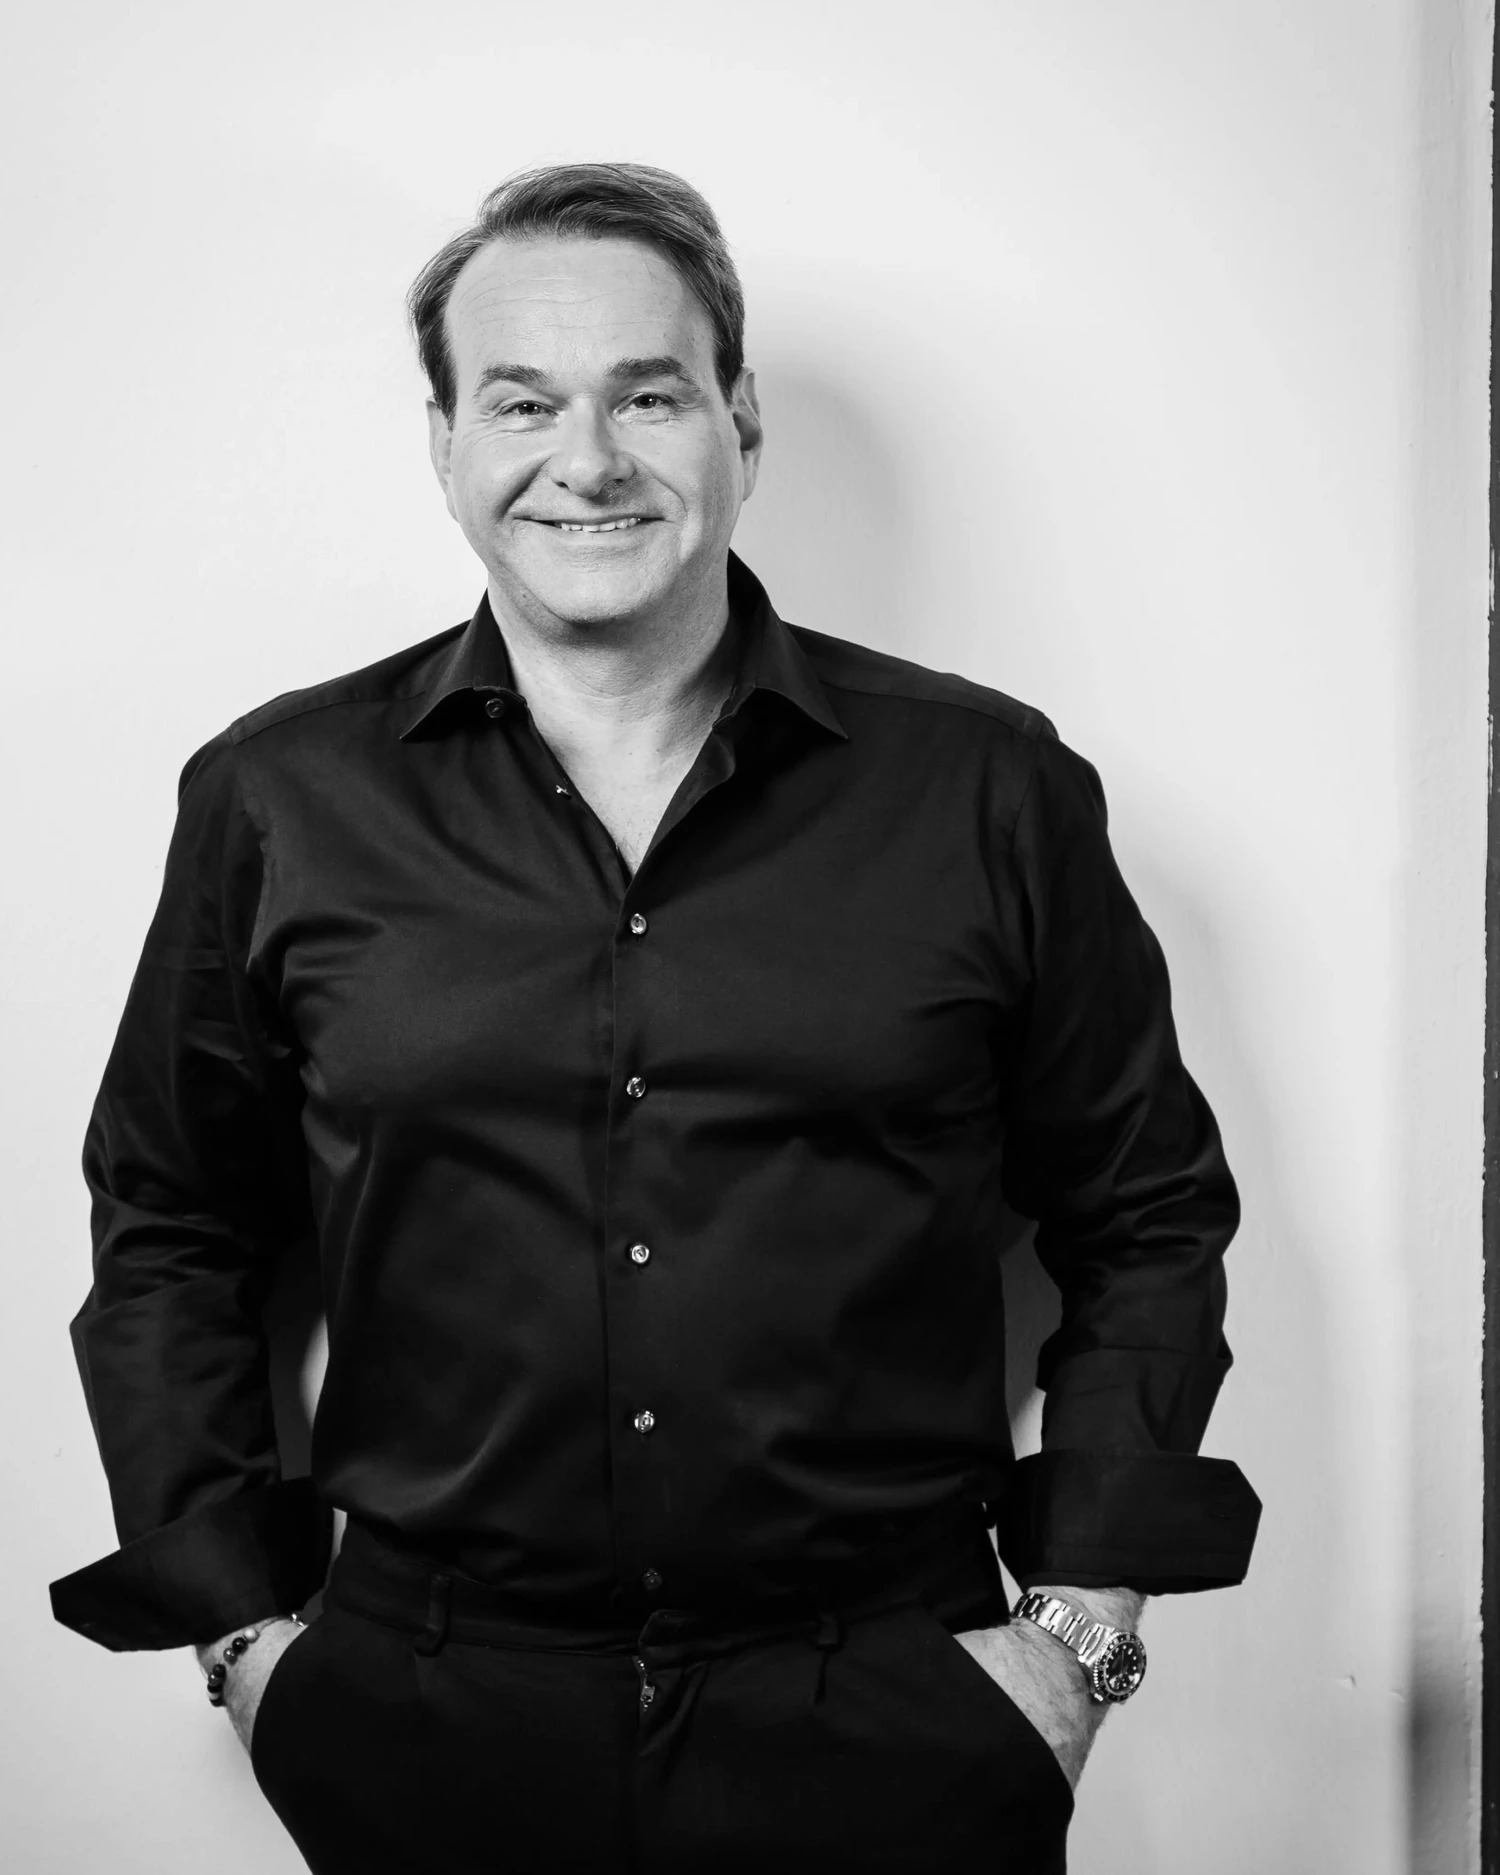
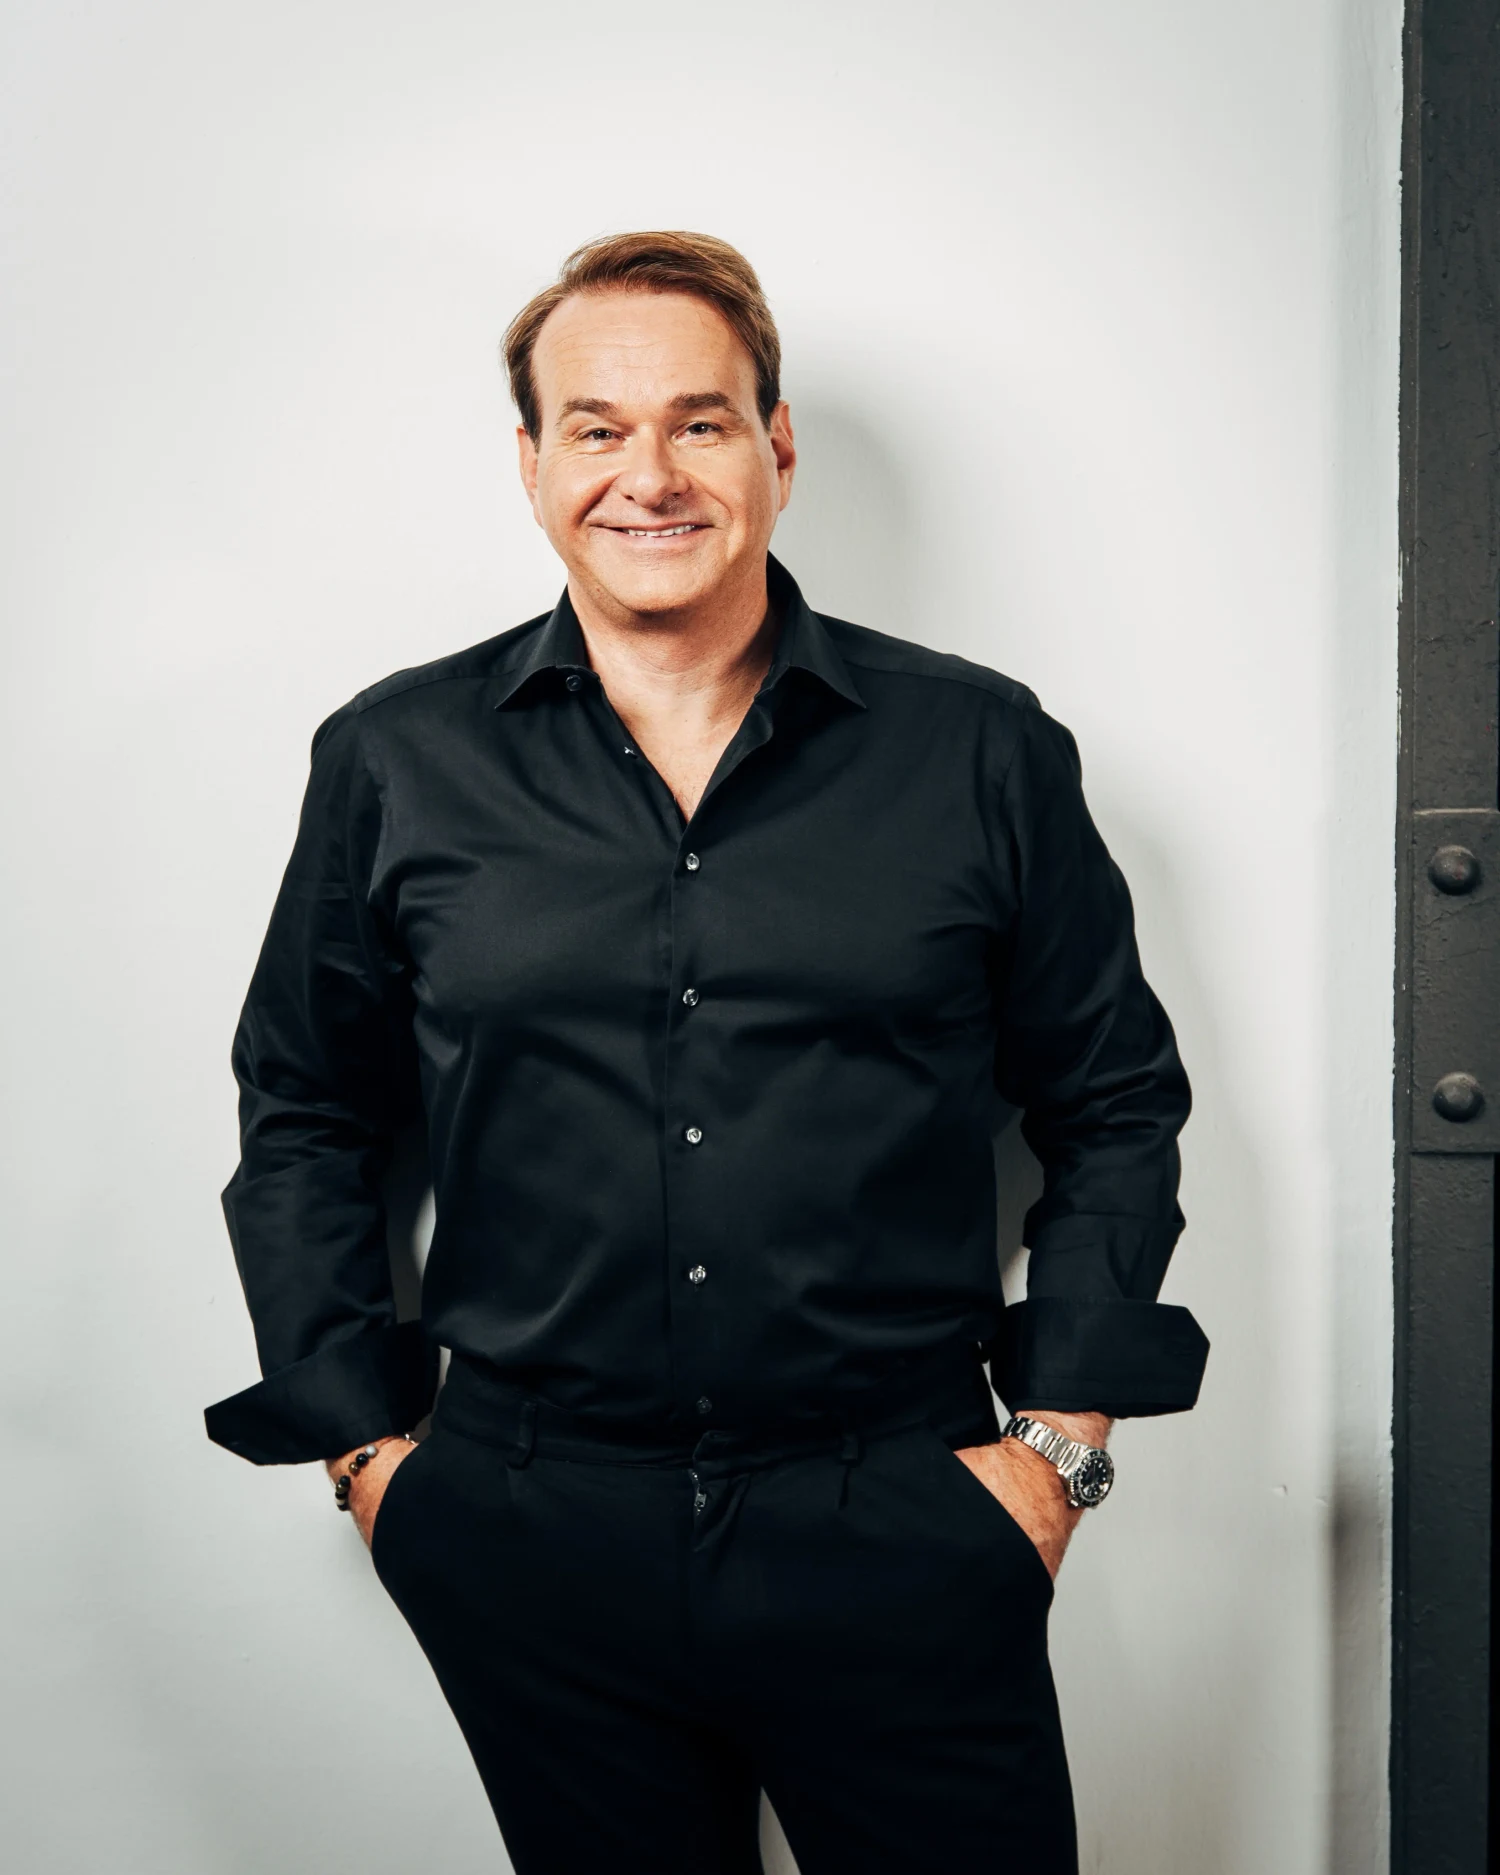
Home Magenta-Kante final geschlossen + Marcus-Quote richtiges Bild
- Magenta-Seam: Hero-Scrim softet auf der Home nach #ff4370 (statt Schwarz) ->
  der dunkle Hero-Boden fliesst weich in die Magenta-Zone; Orbit wieder solide
  #ff4370 = dieselbe Flaeche. Kein harter Rand mehr (Desktop+Mobile). Per Screenshot
  verifiziert. Dark-Seiten unveraendert.
- Marcus-Quote-Bild: gegen das richtige Master 'macus zitat.webp' getauscht (Farbe,
  volle Rahmung) + ?v=2 Cache-Bust.

diff --git a/src/components/cinematic/AlgarveHome.tsx b/src/components/cinematic/AlgarveHome.tsx
@@ -351,11 +351,19 @@ export function AlgarveHome({
           />
         </picture>
 
-        {/* Fokus: das Bild softet nach unten dunkel ab (Übergang in die Kurve) */}
+        {/* Fokus: das Bild softet nach unten ab (Übergang in die Kurve).
+            Home (Wolfram 24.07.): softet nach MAGENTA (#ff4370) statt nach Schwarz —
+            so fließt der Hero-Boden bruchlos in die Magenta-Zone darunter (Orbit + Veil),
+            keine harte Kante mehr. Companies/News/Career (dark) weiter nach Dunkel. */}
         <div
           aria-hidden
           className="pointer-events-none absolute inset-0"
-          style={{ zIndex: 1, background: "linear-gradient(180deg, rgba(10,2,8,0) 46%, rgba(10,2,8,0.5) 74%, rgba(10,2,8,0.9) 100%)" }}
+          style={{
+            zIndex: 1,
+            background: dark
+              ? "linear-gradient(180deg, rgba(10,2,8,0) 46%, rgba(10,2,8,0.5) 74%, rgba(10,2,8,0.9) 100%)"
+              : "linear-gradient(180deg, rgba(255,67,112,0) 46%, rgba(255,67,112,0.55) 74%, #ff4370 100%)",
+          }}
         />
 
         {/* (Zirkel-Kontur entfernt, Wolfram 14.07.: die weiße Inset-Linie erzeugte
@@ -369,13 +377,10 @@ export function AlgarveHome({
         data-nav-theme={dark ? "dark" : "magenta"}
         aria-hidden
         className="pointer-events-none relative z-[1]"
-        // Home (Wolfram 24.07.): Orbit-Zone als WEICHER Verlauf oben transparent → unten
-        // Magenta. Oben transparent blendet in den (mobil dunklen, per Foto+Scrim
-        // abgedunkelten) Hero-Boden → KEINE harte Kante; unten #ff4370 schließt lückenlos
-        // an den DustStage-Veil-Magenta an. So ist der untere Bereich durchgehend magenta,
-        // ohne sichtbaren Übergang. (Solid Magenta erzeugte mobil eine harte Kante zum
-        // dunklen Hero-Boden.) Companies/News/Career (dark) bleiben transparent.
-        style={{ height: "52vh", background: dark ? "transparent" : "linear-gradient(180deg, rgba(255,67,112,0) 0%, #ff4370 42%)", overflow: "visible" }}
+        // Home (Wolfram 24.07.): Orbit-Zone solide #ff4370. Der Hero-Scrim softet jetzt
+        // selbst nach #ff4370 aus (s.o.) → Hero-Boden und Orbit sind dieselbe Magenta-
+        // Fläche, kein Übergang. Companies/News/Career (dark) bleiben transparent.
+        style={{ height: "52vh", background: dark ? "transparent" : "#ff4370", overflow: "visible" }}
       >
         {dark && (
           <div aria-hidden className="pointer-events-none absolute inset-0 overflow-hidden" style={{ zIndex: 0 }}>

diff --git a/src/components/cinematic/algarve/EditorialStickyScene.tsx b/src/components/cinematic/algarve/EditorialStickyScene.tsx
@@ -242,7 +242,7 @@ export function EditorialStickyScene() {
               className="absolute left-0 top-0 h-[135vw] w-full overflow-hidden md:h-full max-md:!sticky max-md:!top-[72px] max-md:!z-[3] max-md:!w-full"
             >
               <img
-                src="/editorial/marcus-wolter.webp"
+                src="/editorial/marcus-wolter.webp?v=2"
                 alt="Marcus Wolter, Founder & CEO Banijay Germany"
                 className="h-full w-full object-cover"
                 // Neues Hochformat-Porträt (Wolfram 22.07., photo.jpeg 2326×2908 → 1500×1875):
